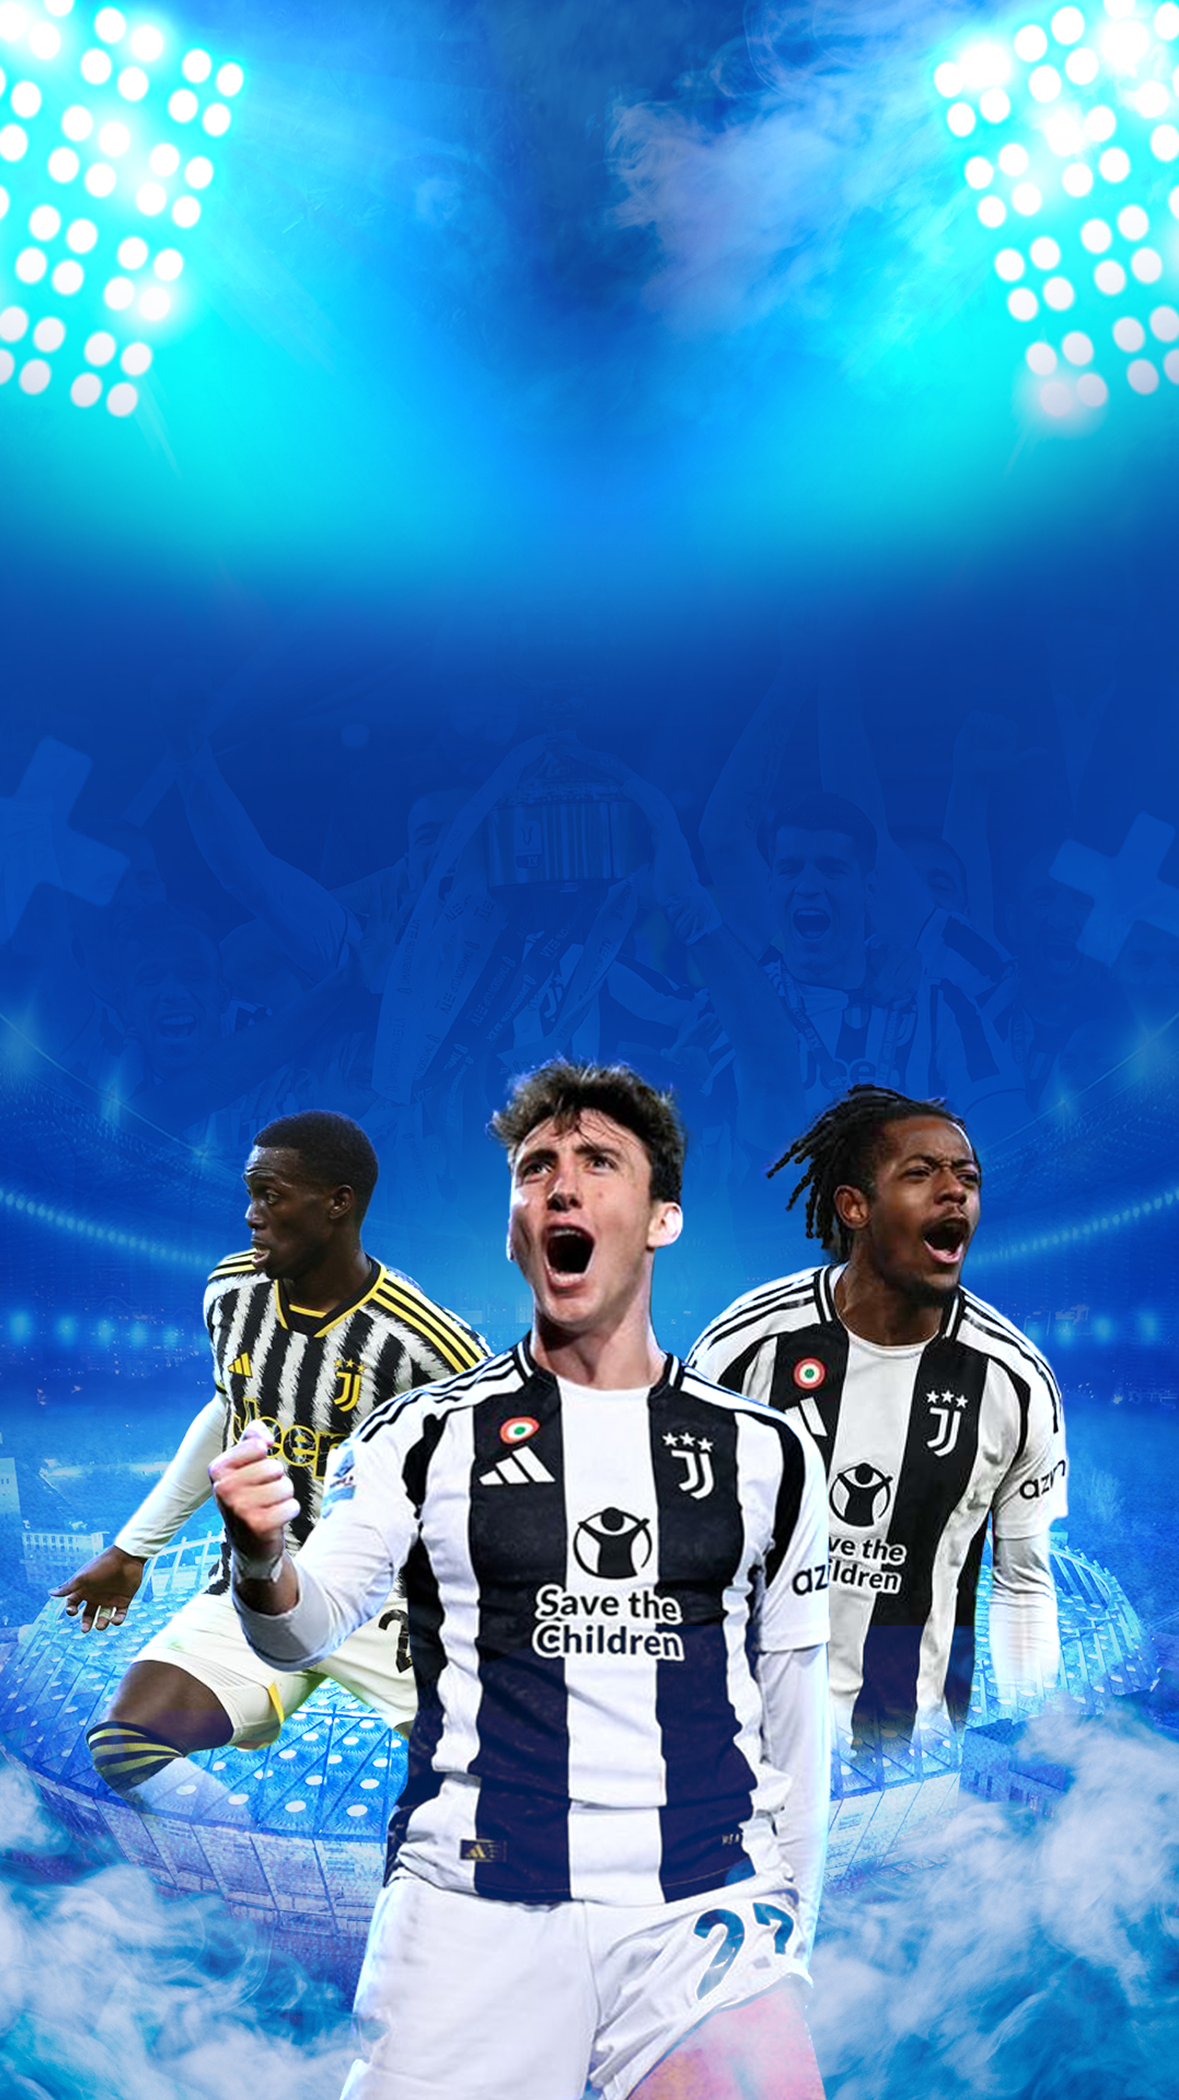
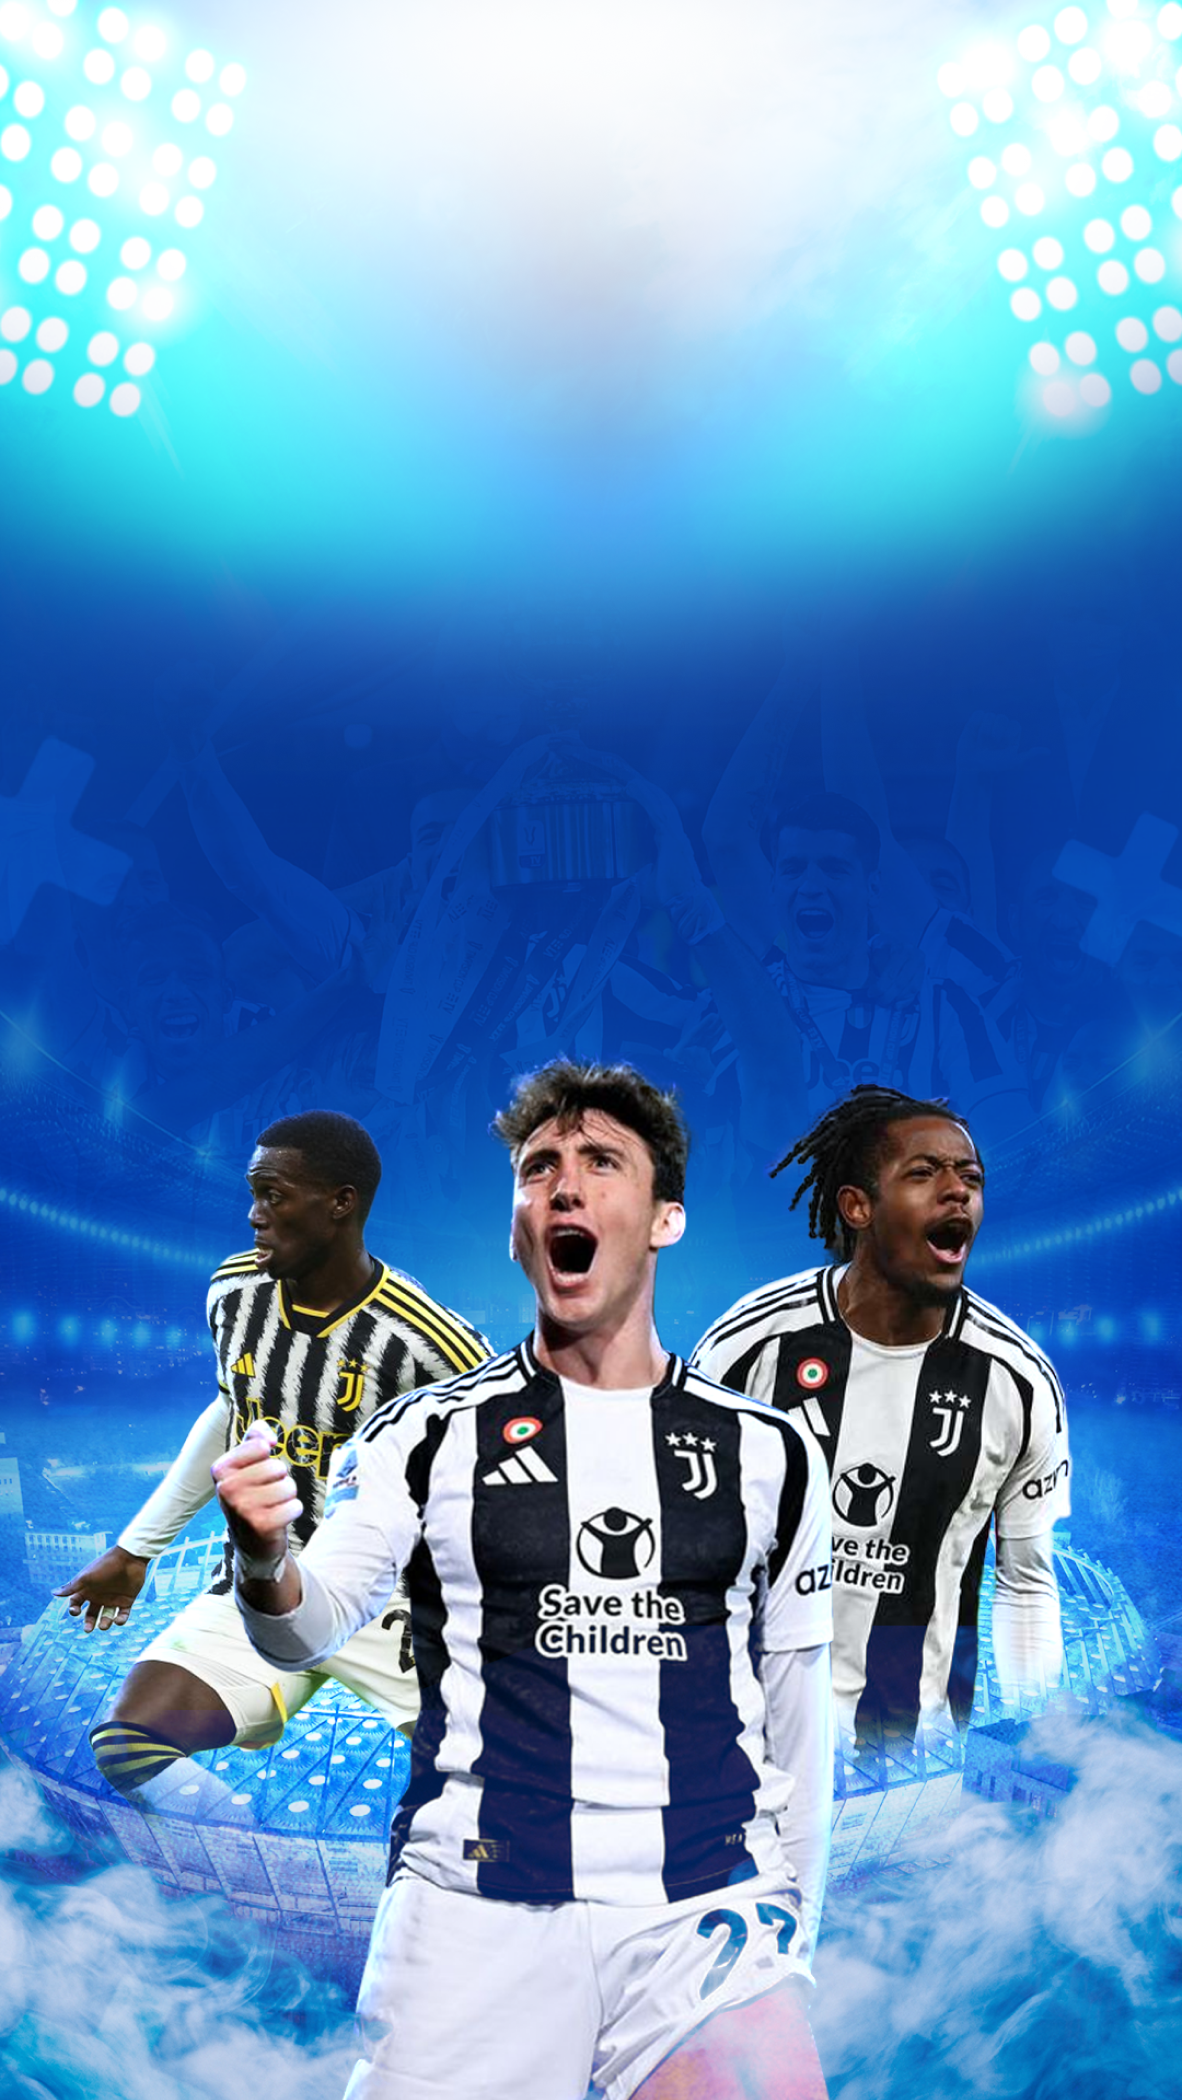
update layoput pc

diff --git a/styles.css b/styles.css
@@ -185,6 +185,72 @@ body {
     padding: var(--spacing-md) 0;
 }
 
+/* ===== Desktop Responsive ===== */
+@media (min-width: 769px) {
+    body {
+        background-image: url('assets/bg-pc.webp');
+        background-size: cover;
+    }
+    
+    .header {
+        padding: 20px var(--spacing-md);
+        margin-bottom: 20px;
+        margin-top: 50px;
+    }
+    
+    .title-text {
+        max-height: 100px;
+    }
+    
+    .main {
+        padding: 0 var(--spacing-md);
+        gap: 60px;
+        justify-content: flex-start;
+        align-items: center;
+    }
+    
+    .links-grid {
+        grid-template-columns: repeat(6, 1fr);
+        max-width: 1600px;
+        gap: 35px;
+        align-items: start;
+        margin-bottom: 30px;
+        margin-top: 30px;
+    }
+
+    .link-item {
+        gap: 30px;
+    }
+
+    .link-item:nth-child(4),
+    .link-item:nth-child(5),
+    .link-item:nth-child(6) {
+        margin-top: 0;
+    }
+    
+    .circle-container {
+        width: 200px;
+        height: 200px;
+    }
+    
+    .circle-text {
+        font-size: 2.5rem;
+    }
+
+    .btn-image {
+        max-width: 250px;
+    }
+    
+    .btn-text {
+        font-size: 1.2rem;
+    }
+    
+    .logo-section {
+        height: 100px;
+        margin-top: 20px;
+    }
+}
+
 /* ===== Mobile Responsive ===== */
 @media (max-width: 480px) {
     .header {

diff --git a/index.html b/index.html
@@ -86,15 +86,13 @@
                 </div>
             </div>
         </div>
-        
-        <div class="logo-section">
-            <img src="assets/logo-rr88-juve.png" alt="RR88 Juventus Logo" class="juve-logo">
-        </div>
     </main>
 
     <!-- Footer -->
     <footer class="footer">
-        
+        <div class="logo-section">
+            <img src="assets/logo-rr88-juve.png" alt="RR88 Juventus Logo" class="juve-logo">
+        </div>
     </footer>
 
     <!-- JavaScript -->

diff --git a/script.js b/script.js
@@ -2,7 +2,7 @@ document.addEventListener("DOMContentLoaded", () => {
     function generateRandomNumbers() {
         const numbers = [];
         const min = 30;
-        const max = 50;
+        const max = 60;
         
         for (let i = 0; i < 6; i++) {
             const randomNum = Math.floor(Math.random() * (max - min + 1)) + min;
